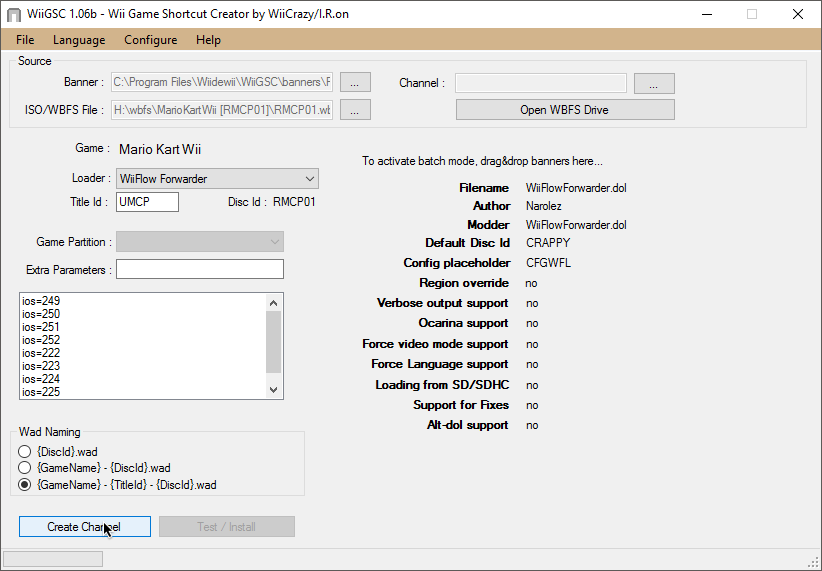
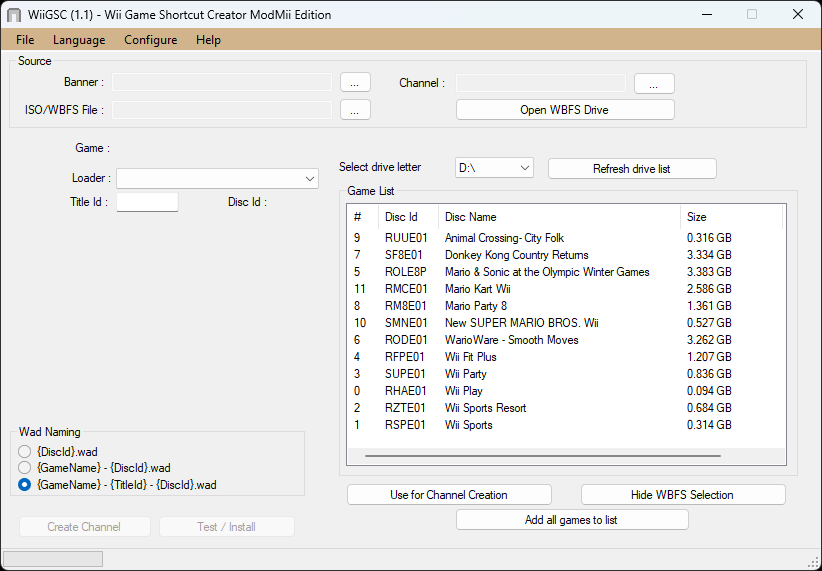
Update WiiGSC Guide (#159)
* Update WiiGSC Guide

* Re-add wiigsc-home file to prevent build fail

diff --git a/docs/wiigsc.md b/docs/wiigsc.md
@@ -1,16 +1,22 @@
 # Creating Wii Game Shortcuts
 
-Do you use a Wii backup loader and want to create game shortcuts to launch them on your Wii Menu? Then try WiiGSC (Wii Game Shortcut Creator), previously known as Crap.
+This guide provides instructions on how to create Wii game shortcuts for game backups that you have on external storage devices, using a piece of software called WiiGSC (Wii Game Shortcut Creator). By creating game shortcuts, you can launch a game backup directly from the Wii Menu as if you had inserted the game as a regular disc.
 
 ::: warning
 
-In the case of a brick, [installing Priiloader is a must](/priiloader). Also, install BootMii (as Boot2 if you have an early Wii). Installing brick protection along with following the guide correctly should keep you safe from bricks. DO NOT CONTINUE UNTIL YOU HAVE INSTALLED PRIILOADER AND BOOTMII!
+Installing [Priiloader](priiloader) and [BootMii](bootmii) are advised due to brick risk in this guide, and should keep you safe along with following the guide correctly. Do NOT continue the guide unless you have installed Priiloader or BootMii!
 
 :::
 
 ::: warning
 
 Do NOT make a shortcut for the games "Mario Party 9" or "A Boy and His Blob". It will brick your Wii.
+
+:::
+
+::: warning
+
+Your browser or antivirus software may flag WiiGSC as malware - this is a false positive. WiiGSC does NOT contain any malware.
 
 :::
 
@@ -24,21 +30,37 @@ The Wii Menu is limited to 48 channels, not including existing system channels.
 
 * A Wii
 * An SD or USB drive
+* A Windows computer
 * [YAWM ModMii Edition](yawmme)
-* A Windows computer.
 * [WiiGSC ModMii Edition](https://github.com/modmii/WiiGSC/releases)
 
 ## Instructions
 
-1. Extract the WiiGSC `.zip`, find `WiiGSC.exe`, and launch it.
+### Section I - Creating a Channel
 
-    ![](/images/desktop-apps/wiigsc/wiigsc-home.png)
+1. Extract the WiiGSC `.zip`, find `WiiGSC.exe`, and launch it. The first launch will prompt you about common key creation and provide a disclaimer - simply click through these windows.
 
-1. Select the path to the ISO or WBFS file on your SD or USB drive, and select the loader you use. The other options should be fine the way they are.
+    ![](/images/desktop-apps/wiigsc/wiigsc-disclaimer.png)
+
+1. With WiiGSC open, select `Open WBFS Drive` and select the drive letter for the device containing your WBFS files. Alternatively, you may select an individual ISO/WBFS file.
 
     ![](/images/desktop-apps/wiigsc/wiigsc-selection.png)
 
-1. Install the generated WAD with your [WAD manager](yawmme).
+1. Select the game you would like to create a channel for, and then press `Use for Channel Creation`. Select the USB loader that you will use to launch the game, and then press `Create Channel` located in the bottom left corner.
+
+    ![](/images/desktop-apps/wiigsc/wiigsc-creation.png)
+
+1. Copy the output WAD to your SD card or other device used to load homebrew.
+
+### Section II - Installing Channel
+
+1. Open your WAD manager and locate the output WAD, then install it.
+
+    ![](/images/desktop-apps/wiigsc/wiigsc-install.png)
+
+1. If successful, you should now see your game shortcut on the Wii Menu!
+
+    ![](/images/desktop-apps/wiigsc/wiigsc-success.png)
 
 ::: info
 
